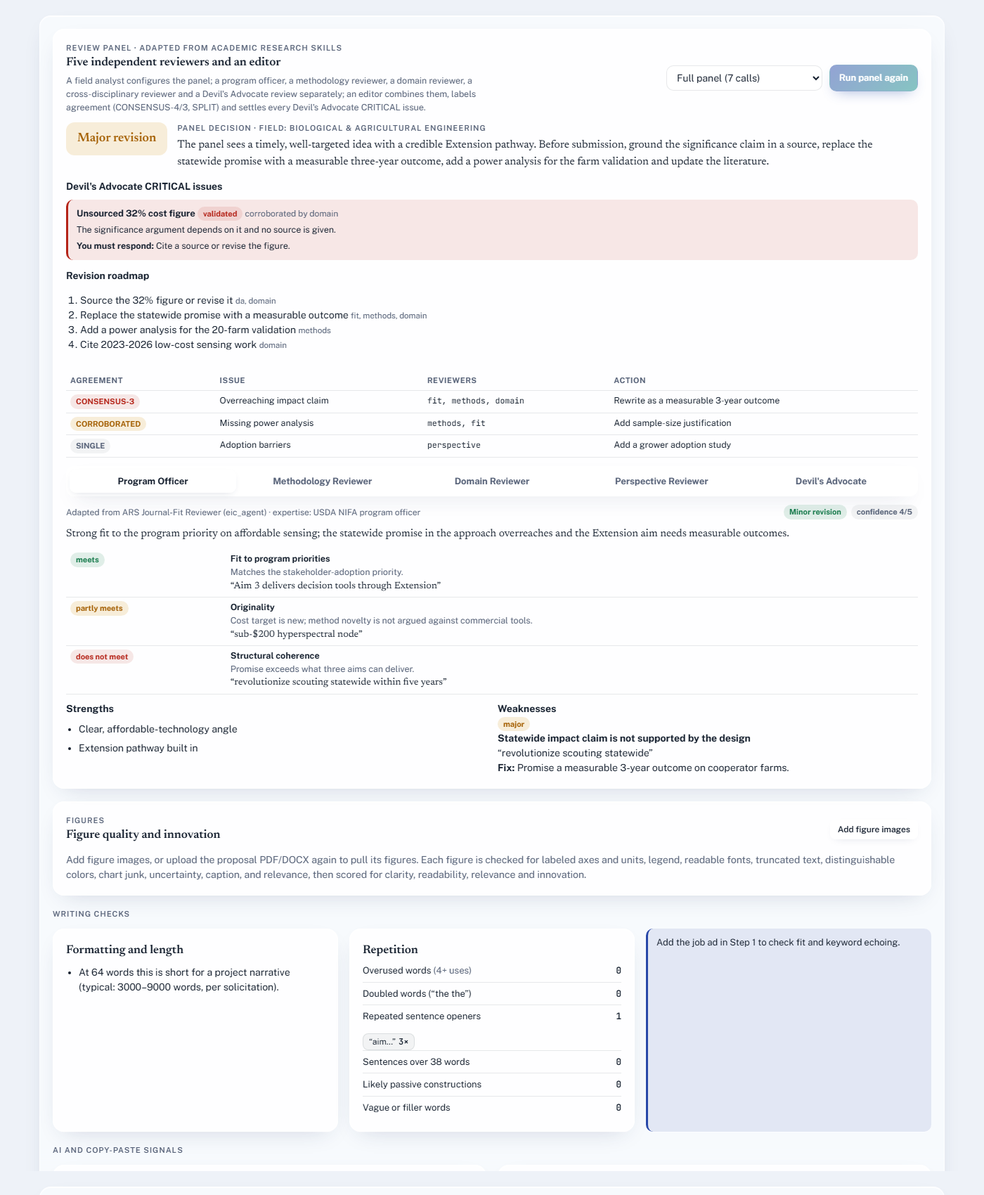
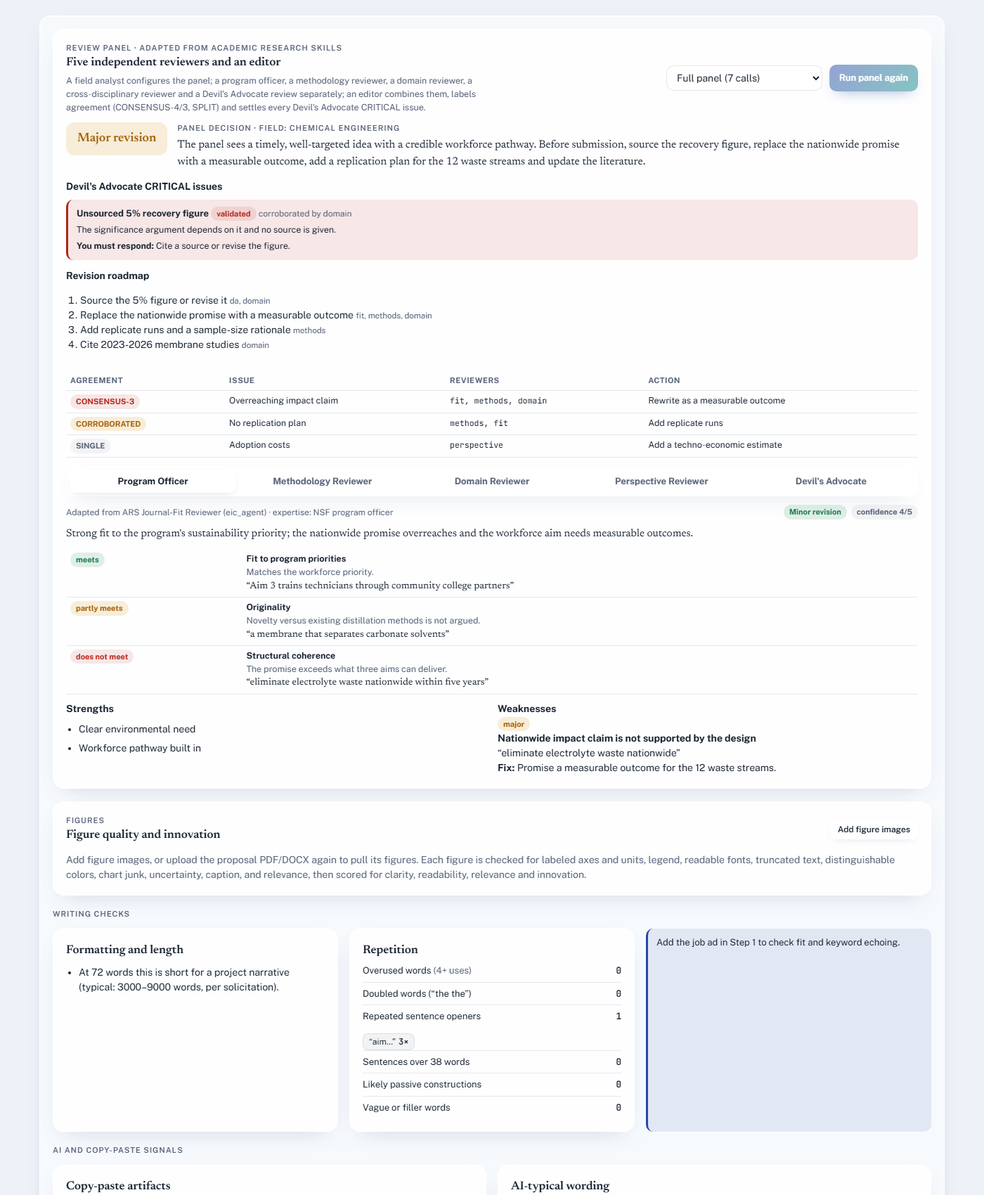
Remove the built-in example cover letter; use neutral sample content
The web app now opens empty, and any example a visitor already had saved is
cleared. Screenshots, sample files and budget defaults use a made-up chemistry
teaching statement and a battery-recycling proposal instead.

diff --git a/scripts/_sample_data.js b/scripts/_sample_data.js
@@ -1,0 +1,83 @@
+// Made-up sample content used only for the README screenshots (not shipped in the web app).
+window.SAMPLE = {
+  job: {title: "Assistant Professor of Chemistry", dept: "Department of Chemistry", univ: "Example State University",
+    ad: "Example State University invites applications for a tenure-track Assistant Professor of Chemistry. The successful candidate will teach general and physical chemistry, develop courses in computational and data-driven chemistry, mentor undergraduate and graduate researchers, and build an externally funded research program."},
+  teaching: `Teaching Statement
+My goal as a teacher is to help students think like chemists: to ask testable questions, design careful experiments, and explain their results clearly. Over the past four years I have taught General Chemistry recitations for 320 students and co-taught the Physical Chemistry laboratory as a graduate instructor. In my recitations I replaced worked examples with short group problems, and average quiz scores rose from 68% to 79% over one semester.
+I believe that every student can succeed in chemistry if they are given the right support and the right environment to learn and grow in. I will use active learning, flipped classrooms, project-based learning, and cutting-edge technology to transform how chemistry is taught across the entire department. In my laboratory sections, students designed their own buffer experiments and presented posters to their peers at the end of the term.
+I am qualified to teach General Chemistry, Physical Chemistry, and Instrumental Analysis. I would also like to develop a new elective on computational chemistry that would compliment the department's existing data science courses. I assess learning with weekly low-stakes quizzes, lab reports graded with a shared rubric, and a final project.
+I have mentored five undergraduate researchers, three of whom co-authored conference presentations.`,
+  teachingAI: {
+    summary: "Concrete evidence of teaching impact (quiz gains, student-designed labs), but the philosophy paragraph is generic, one sentence overpromises a department-wide transformation, and there is no plan for students with different preparation or for improving courses from feedback.",
+    scores: {clarity: 7, evidence: 8, fit: 6, feasibility: 5, innovation: 6, writing: 7},
+    innovation_comment: "The student-designed buffer labs are a good hook; say what is new about the computational elective compared with existing courses.",
+    feasibility_comment: "\"Transform how chemistry is taught across the entire department\" is beyond what a new assistant professor controls. Promise changes in your own courses.",
+    checklist: [
+      {id: "T1", status: "met", sentences: [1], note: "Clear goal stated in the first sentence.", add: null},
+      {id: "T2", status: "met", sentences: [2], note: "Specific courses and numbers of students.", add: null},
+      {id: "T3", status: "met", sentences: [3, 6], note: "Group problems and student-designed labs, with results.", add: null},
+      {id: "T4", status: "partial", sentences: [5, 6], note: "Lists methods but only one concrete project example.", add: null},
+      {id: "T5", status: "partial", sentences: [5], note: "\"Cutting-edge technology\" is vague; name the tools you will use.", add: null},
+      {id: "T6", status: "met", sentences: [7], note: "Courses listed.", add: null},
+      {id: "T7", status: "met", sentences: [8], note: "Computational chemistry elective proposed.", add: null},
+      {id: "T8", status: "met", sentences: [9], note: "Quizzes, rubric and final project.", add: null},
+      {id: "T9", status: "missing", sentences: [], note: "Nothing on students with different backgrounds or preparation.",
+        add: {after: 4, new_paragraph: false, text: "Because students arrive with very different preparation, I offer optional review sessions in the first weeks and pair groups so that [strategy you use] supports students who are new to lab work."}},
+      {id: "T10", status: "partial", sentences: [10], note: "Undergraduate mentoring only; add how you will mentor graduate students.",
+        add: {after: 10, new_paragraph: false, text: "With graduate students, I set shared milestones each semester and give them chances to mentor undergraduates themselves."}},
+      {id: "T11", status: "missing", sentences: [], note: "No plan for improving teaching from feedback.",
+        add: {after: 9, new_paragraph: false, text: "I collect anonymous mid-semester feedback and compare learning outcomes each term, and I revised [course] after students asked for more worked practice."}},
+      {id: "T12", status: "partial", sentences: [8], note: "Link the elective to the department's data science courses more directly.", add: null}],
+    issues: [
+      {s: 4, type: "unclear", quote: "if they are given the right support and the right environment to learn and grow in", replacement: "when they get timely feedback and regular practice, which is why I build both into every course", fix: "Generic; say what support you actually provide."},
+      {s: 5, type: "overpromise", quote: "to transform how chemistry is taught across the entire department", replacement: "in the courses I teach, starting with [course name]", fix: "A new faculty member cannot change the whole department's teaching."},
+      {s: 8, type: "grammar", quote: "would compliment", replacement: "would complement", fix: "\"Complement\" (to complete) is the correct word here."}],
+    lacking: ["How you support students with different preparation", "How you use feedback to improve courses", "Graduate mentoring approach"],
+    top_changes: ["Replace the generic belief sentence with what you actually do", "Scale the department-wide promise down to your own courses", "Add a sentence on supporting differently prepared students", "Add how you use mid-semester feedback"],
+    formatting: ["Keep to about one and a half pages", "Consider short bold lead-ins for philosophy, practice and assessment"],
+    strengths: ["Quantified result (68% to 79%)", "Student-designed labs"],
+    why_me: null
+  },
+  grantText: `Project Narrative
+Significance
+Lithium-ion battery recycling recovers less than 5% of electrolyte solvents today. Most recyclers lack a low-energy separation step (Lee, 2021).
+Aim 1 designs a membrane that separates carbonate solvents. Aim 2 tests it on 12 industrial waste streams. Aim 3 trains technicians through community college partners.
+Our process will eliminate electrolyte waste nationwide within five years using profound learning to tune membranes.
+References
+Lee, H. (2021). Electrolyte recovery from spent lithium-ion cells. Journal of Power Sources, 480, 1-9.`,
+  panel: {mode: "full", errors: [], field: {primary: "Chemical engineering", cards: {fit: "NSF program officer", methods: "membrane separation experiments", domain: "battery recycling", perspective: "environmental economics"}},
+    seats: {
+      fit: {recommendation: "minor", confidence: 4, summary: "Strong fit to the program's sustainability priority; the nationwide promise overreaches and the workforce aim needs measurable outcomes.",
+        criteria: [{criterion: "Fit to program priorities", verdict: "MEETS", evidence: "Aim 3 trains technicians through community college partners", rationale: "Matches the workforce priority."},
+          {criterion: "Originality", verdict: "PARTLY_MEETS", evidence: "a membrane that separates carbonate solvents", rationale: "Novelty versus existing distillation methods is not argued."},
+          {criterion: "Structural coherence", verdict: "DOES_NOT_MEET", evidence: "eliminate electrolyte waste nationwide within five years", rationale: "The promise exceeds what three aims can deliver."}],
+        strengths: ["Clear environmental need", "Workforce pathway built in"],
+        weaknesses: [{issue: "Nationwide impact claim is not supported by the design", severity: "major", evidence: "eliminate electrolyte waste nationwide", fix: "Promise a measurable outcome for the 12 waste streams."}]},
+      methods: {recommendation: "major", confidence: 4, summary: "No justification for 12 waste streams and no plan for replicate runs.", criteria: [{criterion: "Sampling and replication", verdict: "DOES_NOT_MEET", evidence: "tests it on 12 industrial waste streams", rationale: "No replication or power justification."}],
+        strengths: ["Real industrial samples"], weaknesses: [{issue: "No replication plan", severity: "major", evidence: "12 industrial waste streams", fix: "Add replicate runs and a sample-size rationale."}]},
+      domain: {recommendation: "minor", confidence: 3, summary: "Literature is thin; recent membrane work is missing.", criteria: [], strengths: ["Well-defined gap"], weaknesses: [{issue: "Only one citation, from 2021", severity: "minor", evidence: "(Lee, 2021)", fix: "Cite 2023-2026 membrane separation studies."}]},
+      perspective: {recommendation: "minor", confidence: 3, summary: "Recycler adoption costs are not discussed.", criteria: [], strengths: ["Workforce angle"], weaknesses: [{issue: "No adoption or cost analysis", severity: "minor", evidence: "Most recyclers lack a low-energy separation step", fix: "Add a techno-economic estimate."}]},
+      da: {strongest_counter_argument: "Improving existing distillation may recover most solvents at lower risk than a new membrane, so the membrane may not be the simplest path.",
+        issues: [{severity: "CRITICAL", dimension: "logic chain", issue: "The 5% recovery figure is not sourced and drives the significance argument", evidence: "recovers less than 5% of electrolyte solvents", fix: "Cite the figure or replace it with a sourced estimate."}],
+        alternatives: ["Improved distillation", "Solvent-free electrolyte designs"], missing_stakeholders: ["Recycling plant operators"], observations: []}},
+    synth: {decision: "major",
+      letter: "The panel sees a timely, well-targeted idea with a credible workforce pathway. Before submission, source the recovery figure, replace the nationwide promise with a measurable outcome, add a replication plan for the 12 waste streams and update the literature.",
+      items: [{issue: "Overreaching impact claim", label: "CONSENSUS-3", reviewers: ["fit", "methods", "domain"], action: "Rewrite as a measurable outcome"},
+        {issue: "No replication plan", label: "CORROBORATED", reviewers: ["methods", "fit"], action: "Add replicate runs"},
+        {issue: "Adoption costs", label: "SINGLE", reviewers: ["perspective"], action: "Add a techno-economic estimate"}],
+      splits: [],
+      da_critical: [{issue: "Unsourced 5% recovery figure", corroborated_by: ["domain"], assessment: "validated", rationale: "The significance argument depends on it and no source is given.", required_response: "Cite a source or revise the figure."}],
+      roadmap: [{priority: 1, item: "Source the 5% figure or revise it", from: ["da", "domain"]}, {priority: 2, item: "Replace the nationwide promise with a measurable outcome", from: ["fit", "methods", "domain"]},
+        {priority: 3, item: "Add replicate runs and a sample-size rationale", from: ["methods"]}, {priority: 4, item: "Cite 2023-2026 membrane studies", from: ["domain"]}]}},
+  refs: `Electrolyte losses reached 32% of recovered material in 2021. Most recyclers lack separation steps (Lee, 2021). Kim and Park (2019) showed that membranes work, and we delve into a robust process using profound learning on GC-MS data. See https://example.org/report?utm_source=chatgpt.com for details (Ghost, 2018).
+References
+Lee, H. (2021). Electrolyte recovery from spent lithium-ion cells. Journal of Power Sources, 480, 1-9.
+Kim, S., & Park, J. (2019). Membrane separation of carbonate solvents. Membranes, 4, 1-3.
+Never, C. (2025). Unused preprint on battery recycling. arXiv preprint.
+Never, C. (2025). Unused preprint on battery recycling. arXiv preprints.`
+};
+window.loadSampleTeaching = function () {
+  switchMode("faculty"); resetMode(); S.job = {...SAMPLE.job};
+  S.docs.teaching = {text: SAMPLE.teaching, name: "Example teaching statement", ai: {...JSON.parse(JSON.stringify(SAMPLE.teachingAI)), hash: hash(SAMPLE.teaching), t: 1}, model: null};
+  S.active = "teaching"; ui.animKey = null; renderAll();
+};

diff --git a/docs/index.html b/docs/index.html
@@ -481,56 +481,9 @@ function getModel(d){
 }
 const validAi=d=>d.ai&&d.ai.hash===hash(d.text)?d.ai:null;
 
-/* ---------------- example ---------------- */
-const EX_JOB={title:"Assistant Professor in Precision Agriculture",dept:"Department of Biological and Agricultural Engineering",univ:"Northfield State University",
-ad:`Northfield State University, the state's land-grant institution, invites applications for a tenure-track Assistant Professor in Precision Agriculture (60% research, 20% teaching, 20% Extension) in the Department of Biological and Agricultural Engineering.
-
-The successful candidate will develop an extramurally funded research program in crop sensing, data-driven decision tools, and agricultural automation; teach undergraduate and graduate courses in instrumentation, sensors and controls, and data analytics; and deliver Extension programs that help row-crop producers adopt precision technologies.
-
-Candidates should demonstrate interdisciplinary, stakeholder-engaged approaches and a commitment to excellence in teaching, research, and Extension. The department houses the Northfield Digital Agriculture Center and 3,000 acres of research farms.
-
-Required: Ph.D. in agricultural engineering or a related field; evidence of research productivity. Preferred: experience with edge computing, imaging sensors, and Extension or outreach programming.`};
-const EX_COVER=`Dear Members of the Search Committee,
-I am writing to apply for the Assistant Professor position in Precision Agriculture in the Department of Biological and Agricultural Engineering at Northfield State University. I am excited about this position because it aligns with my passion for innovative, cutting-edge research and my commitment to excellence in teaching, research, and Extension.
-I completed my Ph.D. in Biosystems Engineering in 2025, where I developed low-cost hyperspectral imaging systems for detecting nitrogen stress in corn. This work produced four first-author journal articles and an open dataset of 12,000 annotated leaf spectra that has been downloaded by more than 30 research groups. As a postdoctoral researcher, I built an edge-computing pipeline that runs crop disease detection on a $90 single-board computer at 15 frames per second.
-My research program will revolutionize precision agriculture by eliminating the need for manual crop scouting across the entire state within five years. I will leverage data-driven, interdisciplinary, stakeholder-engaged approaches to address the needs of diverse stakeholders, which aligns with the department's strategic priorities. I am particularly eager to collaborate with the Northfield Digital Agriculture Center and use the university's research farms to validate sensors under field conditions.
-I have taught Instrumentation for Agricultural Systems as a co-instructor for two semesters and mentored six undergraduate researchers, two of whom presented at the ASABE annual meeting. I am also qualified to teach courses in machine vision, sensors and controls, and data analytics for agriculture.
-Thank you for your time and consideration and I look forward to hearing from you.`;
-const EX_AI={
- summary:"Strong, concrete evidence of research productivity and a clear teaching record, but the letter leans on job-ad language in its middle paragraph, overpromises in its research vision, and never mentions Extension even though it is 20% of the appointment.",
- scores:{clarity:7,evidence:8,fit:6,feasibility:3,innovation:6,writing:7},
- innovation_comment:"Low-cost hyperspectral and edge-computing sensing is a credible niche; stating what is new compared with commercial scouting tools would make the innovation explicit.",
- feasibility_comment:"\"Eliminating the need for manual crop scouting across the entire state within five years\" is not achievable by one lab and will read as naive to a committee. Promise a measurable first step instead.",
- checklist:[
-  {id:"C1",status:"met",sentences:[1],note:"Title, department and university are named correctly.",add:null},
-  {id:"C2",status:"partial",sentences:[2],note:"The reason given is generic ('passion', 'cutting-edge'). Name what about Northfield specifically draws you.",add:null},
-  {id:"C3",status:"met",sentences:[3,5],note:"PhD and postdoc training are summarized clearly.",add:null},
-  {id:"C4",status:"met",sentences:[3,4,5],note:"Concrete outcomes: 4 papers, a 12,000-spectrum dataset used by 30+ groups, a $90 edge pipeline.",add:null},
-  {id:"C5",status:"partial",sentences:[6,7],note:"Future direction is stated as hype plus job-ad keywords; give one concrete research thrust.",add:null},
-  {id:"C6",status:"met",sentences:[9,10],note:"Teaching experience and courses listed without repeating the teaching statement.",add:null},
-  {id:"C7",status:"missing",sentences:[],note:"Extension is 20% of this position and 'preferred' in the ad, but no Extension or outreach experience is mentioned.",
-    add:{after:10,new_paragraph:true,text:"Extension is central to how I work. During my Ph.D., I [presented imaging results at grower field days / co-led a workshop for crop consultants], and at Northfield I would run on-farm demonstrations of low-cost sensors with county agents so producers can test them before buying."}},
-  {id:"C8",status:"partial",sentences:[7],note:"Overlap is asserted with the ad's own words rather than shown by mapping your evidence to its requirements (edge computing, imaging sensors).",
-    add:{after:5,new_paragraph:false,text:"This work maps directly onto the advertised emphasis on imaging sensors and edge computing."}},
-  {id:"C9",status:"met",sentences:[8],note:"Names the Digital Agriculture Center and research farms.",add:null},
-  {id:"C10",status:"partial",sentences:[4,5],note:"The low-cost angle is your differentiator but it is never stated as such.",
-    add:{after:5,new_paragraph:false,text:"Together, these results show what I bring that few candidates do: sensing systems cheap enough for producers to own, proven on edge hardware and already used by other researchers."}},
-  {id:"C11",status:"partial",sentences:[],note:"Concise overall; sentences 2 and 7 are filler that weaken the narrative.",add:null},
-  {id:"C12",status:"met",sentences:[11],note:"Closes with appreciation.",add:null}],
- issues:[
-  {s:2,type:"unclear",quote:"my passion for innovative, cutting-edge research",replacement:"the department's investment in the Northfield Digital Agriculture Center, which matches my work on low-cost field sensing,",fix:"'Passion' and 'cutting-edge' are generic. Name a specific draw at this institution."},
-  {s:6,type:"overpromise",quote:"will revolutionize precision agriculture by eliminating the need for manual crop scouting across the entire state within five years",replacement:"will make crop scouting affordable for small and mid-sized farms, starting with field validation of a sub-$200 imaging node on [number] cooperator farms within three years",fix:"Statewide elimination of scouting is not achievable by one lab. Promise a measurable first step."},
-  {s:7,type:"jd_echo",quote:"leverage data-driven, interdisciplinary, stakeholder-engaged approaches to address the needs of diverse stakeholders",replacement:"work with [agronomists, crop consultants, and county Extension agents] to test which sensor outputs producers actually act on",fix:"These are the ad's own buzzwords. Replace them with who you will work with and what you will do."},
-  {s:11,type:"grammar",quote:"consideration and I look forward",replacement:"consideration, and I look forward",fix:"Use a comma before 'and' when it joins two independent clauses."}],
- lacking:["Any Extension or outreach experience (20% of the appointment, and preferred in the ad).","A direct 'why me' sentence stating what you offer that other applicants do not.","Funding direction (agency or program) for the research vision."],
- top_changes:["Rewrite the research vision sentence as one realistic, measurable 3–5 year goal.","Replace the job-ad keyword sentence with evidence that maps to 'edge computing' and 'imaging sensors' in the ad.","Add a short paragraph on Extension: field days, grower talks, or demonstrations you have done or will do.","State your differentiator outright: affordable, deployable sensing that producers can adopt."],
- formatting:["Add date, your contact block, and the search committee address at the top; use institutional letterhead if your current employer allows.","Keep to one page; there is room for an Extension paragraph."],
- strengths:["Quantified outcomes (papers, dataset downloads, cost and frame rate).","Specific institutional resources named."],
- why_me:{verdict:"partly",comment:"The evidence for 'why me' is present (low-cost hyperspectral sensing, a widely used dataset, edge deployment), but the letter never says it. The reader has to infer it.",suggestion:"I bring something few precision-agriculture researchers do: sensing systems cheap enough for producers to own, proven on edge hardware."}
-};
-function loadExample(){resetMode();S.job={...EX_JOB};S.docs.cover={text:EX_COVER,name:"Example cover letter",ai:{...JSON.parse(JSON.stringify(EX_AI)),hash:hash(EX_COVER),t:1},model:null};S.active="cover";S.example=true}
+/* ---------------- no built-in example: the page opens empty ---------------- */
 const hasAny=()=>DOCS.some(d=>(S.docs[d.key].text||"").trim())||S.job.ad.trim();
-if(MODE==="faculty"&&(!hasAny()||S.example))loadExample();
+if(S.example){resetMode();save()}
 
 /* ---------------- Claude ---------------- */
 let sampleFn=null,dlFn=null,claudeState="loading";

diff --git a/docs/checklists.js b/docs/checklists.js
@@ -7,7 +7,7 @@ const MODES={
  faculty:{label:"Faculty packet",short:"Faculty",subs:SUBS_ACADEMIC,
   role:"a senior faculty member on a tenure-track search committee at a land-grant university",
   ctx:{heading:"Position and job ad",f1:"Position title",f2:"Department",f3:"University",ad:"Job advertisement text",adHint:"Paste the full ad: duties, qualifications, appointment split.",
-    p1:"Assistant Professor, Precision Agriculture",p2:"Biological and Agricultural Engineering",p3:"University name"},
+    p1:"Assistant Professor of Chemistry",p2:"Department of Chemistry",p3:"University name"},
   subsDesc:"clarity; evidence (specific, quantified accomplishments); fit (alignment with this position and the job ad); feasibility (10 = realistic, achievable plans; low = overpromising); innovation (novelty and ambition of the proposed goals compared with the field); writing (grammar, concision, style)",
   docs:[
  {key:"research",label:"Research Statement",pre:"R",range:[1200,2500],pages:"2–4 pages",items:[
@@ -125,7 +125,7 @@ const MODES={
  grant:{label:"Grant proposal",short:"Grant",subs:SUBS_GRANT,
   role:"an experienced grant review panelist and program officer who has scored many proposals for agencies such as NSF, NIH and USDA NIFA",
   ctx:{heading:"Funding opportunity",f1:"Program / solicitation",f2:"Agency",f3:"Field of study",ad:"Solicitation or RFA text",adHint:"Paste the program description, priorities and review criteria.",
-    p1:"AFRI Foundational: Engineering for Agricultural Systems",p2:"USDA NIFA",p3:"Agricultural engineering"},
+    p1:"NSF CAREER",p2:"NSF",p3:"Chemistry"},
   subsDesc:"clarity (a reviewer outside the subfield can follow it); evidence (preliminary data, rigor, reproducibility); fit (alignment with the solicitation's priorities and review criteria); feasibility (scope realistic for budget, team and duration; low = overpromising); innovation (conceptual, methodological or technical novelty versus the state of the art); writing (grammar, concision)",
   docs:[
  {key:"proposal",label:"Project Narrative",pre:"G",range:[3000,9000],pages:"per solicitation",items:[

diff --git a/docs/budget.js b/docs/budget.js
@@ -11,8 +11,8 @@ function budgetDefaults(){return{
    {role:"Undergraduate researchers",cat:"undergrad",n:2,base:15,unit:"hour",qty:400,from:1,to:3},
    {role:"Postdoctoral researcher",cat:"postdoc",n:0,base:62000,unit:"year",qty:1,from:1,to:2}],
   equipment:[
-   {name:"Hyperspectral camera",link:"",cost:28000,qty:1,year:1},
-   {name:"Edge computing boards",link:"",cost:250,qty:6,year:1}],
+   {name:"Gas chromatograph",link:"",cost:45000,qty:1,year:1},
+   {name:"Sensor kits",link:"",cost:250,qty:6,year:1}],
   other:{supplies:6000,travelTrips:2,travelCost:2200,publication:3000,participant:0,computing:1500,other:0},
   subawards:[],
   aims:[{name:"Aim 1",pct:40},{name:"Aim 2",pct:35},{name:"Aim 3",pct:25}]}}

diff --git a/scripts/_screenshots.py b/scripts/_screenshots.py
@@ -5,47 +5,33 @@ ROOT = os.path.dirname(os.path.dirname(os.path.abspath(__file__)))
 DOCS = os.path.join(ROOT, "docs"); OUT = os.path.join(DOCS, "assets", "screenshots"); os.makedirs(OUT, exist_ok=True)
 BROWSER = next(p for p in [r"C:\Program Files (x86)\Microsoft\Edge\Application\msedge.exe", r"C:\Program Files\Google\Chrome\Application\chrome.exe", shutil.which("google-chrome") or "", shutil.which("chromium") or ""] if p and os.path.exists(p))
 
-COMMON = """document.documentElement.dataset.theme="light";{const st=document.createElement("style");st.textContent="*,*::before,*::after{animation:none!important;transition:none!important}.bgfx{display:none}";document.head.appendChild(st)}const pb=document.getElementById("providerBar");if(pb)pb.remove();const cb=document.getElementById("claudeBar");if(cb)cb.style.display="none";
+COMMON = """document.documentElement.dataset.theme="light";window.countUp=()=>{};{const st=document.createElement("style");st.textContent="*,*::before,*::after{animation:none!important;transition:none!important}.bgfx{display:none}";document.head.appendChild(st)}const pb=document.getElementById("providerBar");if(pb)pb.remove();const cb=document.getElementById("claudeBar");if(cb)cb.style.display="none";
 const go=sel=>{let el=document.querySelector(sel);if(!el)return;if(sel==="#panelRun")el=el.closest("section");let n=el;while(n&&n!==document.body){let p=n.previousElementSibling;while(p){if(!p.matches("script,style,title,meta,link"))p.style.display="none";p=p.previousElementSibling}n=n.parentElement}window.scrollTo(0,0)};"""
-GRANT_TEXT = ("Project Narrative\\nSignificance\\nCrop scouting costs growers up to 32% of margins on small farms. Most growers lack affordable sensors (Smith, 2020).\\n"
-  "Aim 1 builds a sub-$200 hyperspectral node. Aim 2 validates it on 20 cooperator farms. Aim 3 delivers decision tools through Extension.\\n"
-  "Our approach will revolutionize scouting statewide within five years using profound learning on NDVI maps.\\nReferences\\nSmith, J. (2020). Crop sensing for small farms. J. Ag. Eng. 12(3), 1-10.")
-PANEL = """{mode:"full",hash:hash(S.docs.proposal.text),errors:[],field:{primary:"Biological & agricultural engineering",cards:{fit:"USDA NIFA program officer",methods:"field sensing experimental design",domain:"precision agriculture",perspective:"agricultural economics"}},
-seats:{fit:{recommendation:"minor",confidence:4,summary:"Strong fit to the program priority on affordable sensing; the statewide promise in the approach overreaches and the Extension aim needs measurable outcomes.",criteria:[{criterion:"Fit to program priorities",verdict:"MEETS",evidence:"Aim 3 delivers decision tools through Extension",rationale:"Matches the stakeholder-adoption priority."},{criterion:"Originality",verdict:"PARTLY_MEETS",evidence:"sub-$200 hyperspectral node",rationale:"Cost target is new; method novelty is not argued against commercial tools."},{criterion:"Structural coherence",verdict:"DOES_NOT_MEET",evidence:"revolutionize scouting statewide within five years",rationale:"Promise exceeds what three aims can deliver."}],strengths:["Clear, affordable-technology angle","Extension pathway built in"],weaknesses:[{issue:"Statewide impact claim is not supported by the design",severity:"major",evidence:"revolutionize scouting statewide",fix:"Promise a measurable 3-year outcome on cooperator farms."}]},
-methods:{recommendation:"major",confidence:4,summary:"No sample size or power analysis for the 20-farm validation; no hold-out plan for the model.",criteria:[{criterion:"Sampling and power",verdict:"DOES_NOT_MEET",evidence:"validates it on 20 cooperator farms",rationale:"No justification for 20 farms."}],strengths:["Field validation planned"],weaknesses:[{issue:"Missing power analysis",severity:"major",evidence:"20 cooperator farms",fix:"Add a power analysis for the primary accuracy outcome."}]},
-domain:{recommendation:"minor",confidence:3,summary:"Literature is thin and dated; recent low-cost sensing work is missing.",criteria:[],strengths:["Well-defined gap"],weaknesses:[{issue:"Only one citation, from 2020",severity:"minor",evidence:"(Smith, 2020)",fix:"Cite 2023-2026 work on low-cost spectral sensing."}]},
-perspective:{recommendation:"minor",confidence:3,summary:"Adoption barriers for small growers are not discussed.",criteria:[],strengths:["Equity angle for small farms"],weaknesses:[{issue:"No adoption or cost-sharing plan",severity:"minor",evidence:"Most growers lack affordable sensors",fix:"Add an adoption study with growers."}]},
-da:{strongest_counter_argument:"Smartphone imagery with existing vegetation indices may deliver most of the benefit at near-zero cost, so a custom hyperspectral node may not be the simplest path.",issues:[{severity:"CRITICAL",dimension:"logic chain",issue:"The 32% cost figure has no source and drives the significance argument",evidence:"costs growers up to 32% of margins",fix:"Cite the figure or replace it with a sourced estimate."}],alternatives:["Smartphone RGB indices","Satellite scouting services"],missing_stakeholders:["Crop consultants"],observations:[]}},
-synth:{decision:"major",letter:"The panel sees a timely, well-targeted idea with a credible Extension pathway. Before submission, ground the significance claim in a source, replace the statewide promise with a measurable three-year outcome, add a power analysis for the farm validation and update the literature.",
-items:[{issue:"Overreaching impact claim",label:"CONSENSUS-3",reviewers:["fit","methods","domain"],action:"Rewrite as a measurable 3-year outcome"},{issue:"Missing power analysis",label:"CORROBORATED",reviewers:["methods","fit"],action:"Add sample-size justification"},{issue:"Adoption barriers",label:"SINGLE",reviewers:["perspective"],action:"Add a grower adoption study"}],splits:[],
-da_critical:[{issue:"Unsourced 32% cost figure",corroborated_by:["domain"],assessment:"validated",rationale:"The significance argument depends on it and no source is given.",required_response:"Cite a source or revise the figure."}],
-roadmap:[{priority:1,item:"Source the 32% figure or revise it",from:["da","domain"]},{priority:2,item:"Replace the statewide promise with a measurable outcome",from:["fit","methods","domain"]},{priority:3,item:"Add a power analysis for the 20-farm validation",from:["methods"]},{priority:4,item:"Cite 2023-2026 low-cost sensing work",from:["domain"]}]}}"""
-REFS = ("Crop losses reached 32% in 2021. Most farms lack tools (Smith, 2020). Kim and Park (2019) showed that edge devices work, and we delve into a robust pipeline using profound learning on NDVI data. "
-  "See https://example.org/report?utm_source=chatgpt.com for details (Ghost, 2018).\\nReferences\\nSmith, J. (2020). Crop sensing for small farms. Journal of Agricultural Engineering, 12(3), 1-10.\\n"
-  "Kim, S., & Park, J. (2019). Edge imaging for crops. Sensors, 4, 1-3.\\nNever, C. (2025). Unused preprint on sensing. arXiv preprint.\\nNever, C. (2025). Unused preprint on sensing. arXiv preprints.")
 SHOTS = {
- "01-faculty-review": (1400, 1500, "document.getElementById('bulk').style.display='none';document.getElementById('posPanel').style.display='none';"),
- "02-suggestions": (1400, 1150, "document.querySelector('[data-acc]').click();setTimeout(()=>go('#paper'),400);"),
- "03-grant-panel": (1400, 1700, f"switchMode('grant');S.docs.proposal={{text:\"{GRANT_TEXT}\",name:'proposal.docx',ai:null,model:null}};S.active='proposal';S.docs.proposal.panel={PANEL};renderAll();setTimeout(()=>go('#panelRun'),300);"),
+ "01-faculty-review": (1400, 1500, "loadSampleTeaching();document.getElementById('bulk').style.display='none';document.getElementById('posPanel').style.display='none';"),
+ "02-suggestions": (1400, 1150, "loadSampleTeaching();setTimeout(()=>{document.querySelector('[data-acc]').click();setTimeout(()=>go('#paper'),400)},300);"),
+ "03-grant-panel": (1400, 1700, "switchMode('grant');S.docs.proposal={text:SAMPLE.grantText,name:'proposal.docx',ai:null,model:null};S.active='proposal';S.docs.proposal.panel={...SAMPLE.panel,hash:hash(SAMPLE.grantText)};renderAll();setTimeout(()=>go('#panelRun'),300);"),
  "04-budget": (1400, 1500, "switchMode('grant');S.active='tool:budget';renderAll();go('#doc');"),
- "05-references-ai": (1400, 1800, f"switchMode('refs');ALL.refs.text=\"{REFS}\";ALL.refs.name='paper.docx';ALL.refs.ai=null;renderAll();go('#doc');"),
- "06-funding-finder": (1400, 1600, "switchMode('funding');setTimeout(()=>{ff().fields=['Agriculture'];renderFunding();go('#doc')},800);"),
+ "05-references-ai": (1400, 1800, "switchMode('refs');ALL.refs.text=SAMPLE.refs;ALL.refs.name='paper.docx';ALL.refs.ai=null;renderAll();go('#doc');"),
+ "06-funding-finder": (1400, 1600, "switchMode('funding');setTimeout(()=>{ff().fields=['Chemistry'];ff().country='All';renderFunding();go('#doc')},800);"),
 }
 
 def main():
     src = open(os.path.join(DOCS, "index.html"), encoding="utf-8").read()
+    shutil.copy(os.path.join(ROOT, "scripts", "_sample_data.js"), os.path.join(DOCS, "_sample.js"))
     handler = functools.partial(http.server.SimpleHTTPRequestHandler, directory=DOCS)
     handler.log_message = lambda *a: None
     with socketserver.TCPServer(("127.0.0.1", 0), handler) as httpd:
         port = httpd.server_address[1]; threading.Thread(target=httpd.serve_forever, daemon=True).start()
         for name, (w, h, js) in SHOTS.items():
             page = os.path.join(DOCS, f"_shot_{name}.html")
-            open(page, "w", encoding="utf-8").write(src.replace("</body>", f"<script>setTimeout(()=>{{{COMMON}{js}}},1500);</script></body>"))
+            open(page, "w", encoding="utf-8").write(src.replace("</body>", f"<script src='_sample.js'></script><script>setTimeout(()=>{{{COMMON}{js}}},1500);</script></body>"))
             out = os.path.join(OUT, f"{name}.png")
             subprocess.run([BROWSER, "--headless=new", "--disable-gpu", "--hide-scrollbars", "--force-device-scale-factor=1", f"--window-size={w},{h}",
                             "--virtual-time-budget=6000", f"--screenshot={out}", f"http://127.0.0.1:{port}/_shot_{name}.html"], capture_output=True, timeout=120)
             os.remove(page); print("wrote", out, os.path.exists(out))
         httpd.shutdown()
+    os.remove(os.path.join(DOCS, "_sample.js"))
 
 if __name__ == "__main__":
     main()

diff --git a/scripts/dossierlens.py b/scripts/dossierlens.py
@@ -418,7 +418,7 @@ BUDGET_EXAMPLE = {"years": 3, "escalation_pct": 3, "fa_rate_pct": 50, "cap": 750
                   "personnel": [{"role": "PI summer salary", "type": "faculty", "count": 1, "rate": 12200, "unit": "month", "amount": 1, "from_year": 1, "to_year": 3},
                                 {"role": "Graduate research assistant", "type": "grad", "count": 2, "rate": 30000, "unit": "year", "amount": 1, "from_year": 1, "to_year": 3, "tuition": 15000},
                                 {"role": "Undergraduate researchers", "type": "undergrad", "count": 2, "rate": 15, "unit": "hour", "amount": 400, "from_year": 1, "to_year": 3}],
-                  "equipment": [{"item": "Hyperspectral camera", "link": "", "unit_cost": 28000, "qty": 1, "year": 1}, {"item": "Edge computing boards", "link": "", "unit_cost": 250, "qty": 6, "year": 1}],
+                  "equipment": [{"item": "Gas chromatograph", "link": "", "unit_cost": 45000, "qty": 1, "year": 1}, {"item": "Sensor kits", "link": "", "unit_cost": 250, "qty": 6, "year": 1}],
                   "other_per_year": {"supplies": 6000, "trips": 2, "cost_per_trip": 2200, "publication": 3000, "participant_support": 0, "computing": 1500, "other": 0},
                   "subawards": [], "aims": [{"name": "Aim 1", "pct": 40}, {"name": "Aim 2", "pct": 35}, {"name": "Aim 3", "pct": 25}]}
 

diff --git a/README.md b/README.md
@@ -67,7 +67,7 @@ Every review uses the same format:
 
 <table>
 <tr>
-<td width="50%"><img src="docs/assets/screenshots/01-faculty-review.png" alt="Faculty packet review with color-coded checklist highlights and line numbers"><br><sub><b>Faculty packet.</b> Each sentence is tinted by the checklist item it covers (C1, C4…), with line numbers, scores and the <i>why me?</i> verdict.</sub></td>
+<td width="50%"><img src="docs/assets/screenshots/01-faculty-review.png" alt="Faculty packet review with color-coded checklist highlights and line numbers"><br><sub><b>Faculty packet.</b> Each sentence is tinted by the checklist item it covers (T1, T2…), with line numbers, scores and fixes beside the text.</sub></td>
 <td width="50%"><img src="docs/assets/screenshots/03-grant-panel.png" alt="Grant review panel with consensus labels and Devil's Advocate critical issue"><br><sub><b>Grant review panel.</b> Five independent reviewers, consensus labels, a Devil's Advocate CRITICAL issue and the revision roadmap.</sub></td>
 </tr>
 <tr>
@@ -296,9 +296,9 @@ python scripts/dossierlens.py docx revised.md -o revised.docx --title "Research 
 
 ## Integrity checks (adapted from Academic Research Skills)
 **Claims without a citation:** 1
-- sentence 1: "Crop scouting costs growers 32% of margins." (32%)
+- sentence 1: "Electrolyte losses reached 32% of recovered material in 2021." (32%)
 **Acronym issues:** 1
-- line 1: CNN is used 1x but never defined.
+- line 1: MS is used 1x but never defined.
 **Tortured phrases:** 1
 - "profound learning" → usually "deep learning"
 
@@ -341,32 +341,33 @@ The checklists themselves are in [`references/checklists.md`](references/checkli
 ## Example session
 
 ```text
-You  › /dossierlens:review-packet research.docx cover.docx job_ad.pdf
+You  › /dossierlens:review-packet teaching_statement.docx job_ad.pdf
 
-Claude › Cover Letter — 65/100
-         Clarity 7 · Evidence 8 · Fit 6 · Feasibility 3 · Innovation 6 · Writing 7 · Coverage 71%
+Claude › Teaching Statement — 66/100
+         Clarity 7 · Evidence 8 · Fit 6 · Feasibility 5 · Innovation 6 · Writing 7 · Coverage 67%
 
-         ✅ C1 met — line 2: correct title, department and university
-         ◐ C2 partly met — line 4: the reason is generic ("passion", "cutting-edge")
-         ❌ C7 missing — Extension is 20% of the job and never mentioned
+         ✅ T2 met — lines 3-4: courses taught and number of students
+         ◐ T5 partly met — line 8: "cutting-edge technology" is vague; name the tools
+         ❌ T11 missing — no plan for improving teaching from feedback
 
-         Does it say why you? Partly. Try adding: "I bring something few precision-
-         agriculture researchers do: sensing systems cheap enough for producers to own."
-
-         [1] Line 13 · Overpromising
-             − "will revolutionize precision agriculture … within five years"
-             + "will make crop scouting affordable, starting with [number] cooperator farms"
-         [2] Line 26 · Grammar
-             − "consideration and I look forward"
-             + "consideration, and I look forward"
-         [3] After line 23 · Missing item C7 (new paragraph)
-             + "Extension is central to how I work. During my Ph.D., I [presented at grower field days] …"
+         [1] Line 7 · Unclear or vague
+             − "if they are given the right support and the right environment to learn and grow in"
+             + "when they get timely feedback and regular practice, which is why I build both into every course"
+         [2] Line 8 · Overpromising
+             − "to transform how chemistry is taught across the entire department"
+             + "in the courses I teach, starting with [course name]"
+         [3] Line 12 · Grammar
+             − "would compliment"
+             + "would complement"
+         [4] After line 15 · Missing item T11
+             + "I collect anonymous mid-semester feedback and compare learning outcomes each term …"
 
          Reply with the numbers to apply (e.g. apply 1 3), apply all, or apply all grammar.
 
 You  › apply all
 
-Claude › Wrote cover_revised.md and cover_revised.docx. Fill in 2 [brackets] (highlighted yellow in Word).
+Claude › Wrote teaching_statement_revised.md and teaching_statement_revised.docx.
+         Fill in 2 [brackets] (highlighted yellow in Word).
 ```
 
 ---

diff --git a/examples/sample-article.md b/examples/sample-article.md
@@ -1,5 +1,5 @@
-Crop scouting costs growers 32% of margins. Most farms lack low-cost sensors (Smith, 2020). Kim and Park (2019) showed that edge devices work, and we delve into a robust pipeline using profound learning. A normalized difference vegetation index (NDVI) map is built; the CNN model runs on device [2]. See https://example.org/a?utm_source=chatgpt.com for details (Ghost, 2018).
+Electrolyte losses reached 32% of recovered material in 2021. Most recyclers lack a low-energy separation step (Lee, 2021). Kim and Park (2019) showed that membranes can separate carbonate solvents, and we delve into a robust process that uses profound learning to tune the membrane. Each sample is analysed by gas chromatography (GC); the MS detector runs in scan mode [2]. See https://example.org/report?utm_source=chatgpt.com for details (Ghost, 2018).
 References
-Smith, J. (2020). Crop sensing for small farms. Journal of Agricultural Engineering, 12(3), 1-10.
-Kim, S., & Park, J. (2019). Edge imaging. Sensors, 4, 1-3.
-Never, C. (2025). Unused preprint on sensing. arXiv preprint.
+Lee, H. (2021). Electrolyte recovery from spent lithium-ion cells. Journal of Power Sources, 480, 1-9.
+Kim, S., & Park, J. (2019). Membrane separation of carbonate solvents. Membranes, 4, 1-3.
+Never, C. (2025). Unused preprint on battery recycling. arXiv preprint.

diff --git a/references/review-format.md b/references/review-format.md
@@ -46,9 +46,9 @@ Number every suggestion. Each has a line, a type, the exact current words, a rep
 
 ```
 [3] Line 14 · Overpromising
-    − "will revolutionize precision agriculture across the state"
-    + "will cut scouting costs on [number] cooperator farms within three years"
-    Why: one lab cannot transform a whole state's practice in five years.
+    − "will transform how chemistry is taught across the entire department"
+    + "will improve learning in the courses I teach, starting with [course name]"
+    Why: a new faculty member cannot change a whole department's teaching.
 ```
 
 Types: Grammar · Unclear or vague · Overpromising · Job-ad echo (repeats the ad's buzzwords instead of showing evidence) · Repetition · Tone · Formatting · **Missing item** (a new sentence or paragraph that covers a ❌/◐ checklist item, with where to insert it).
